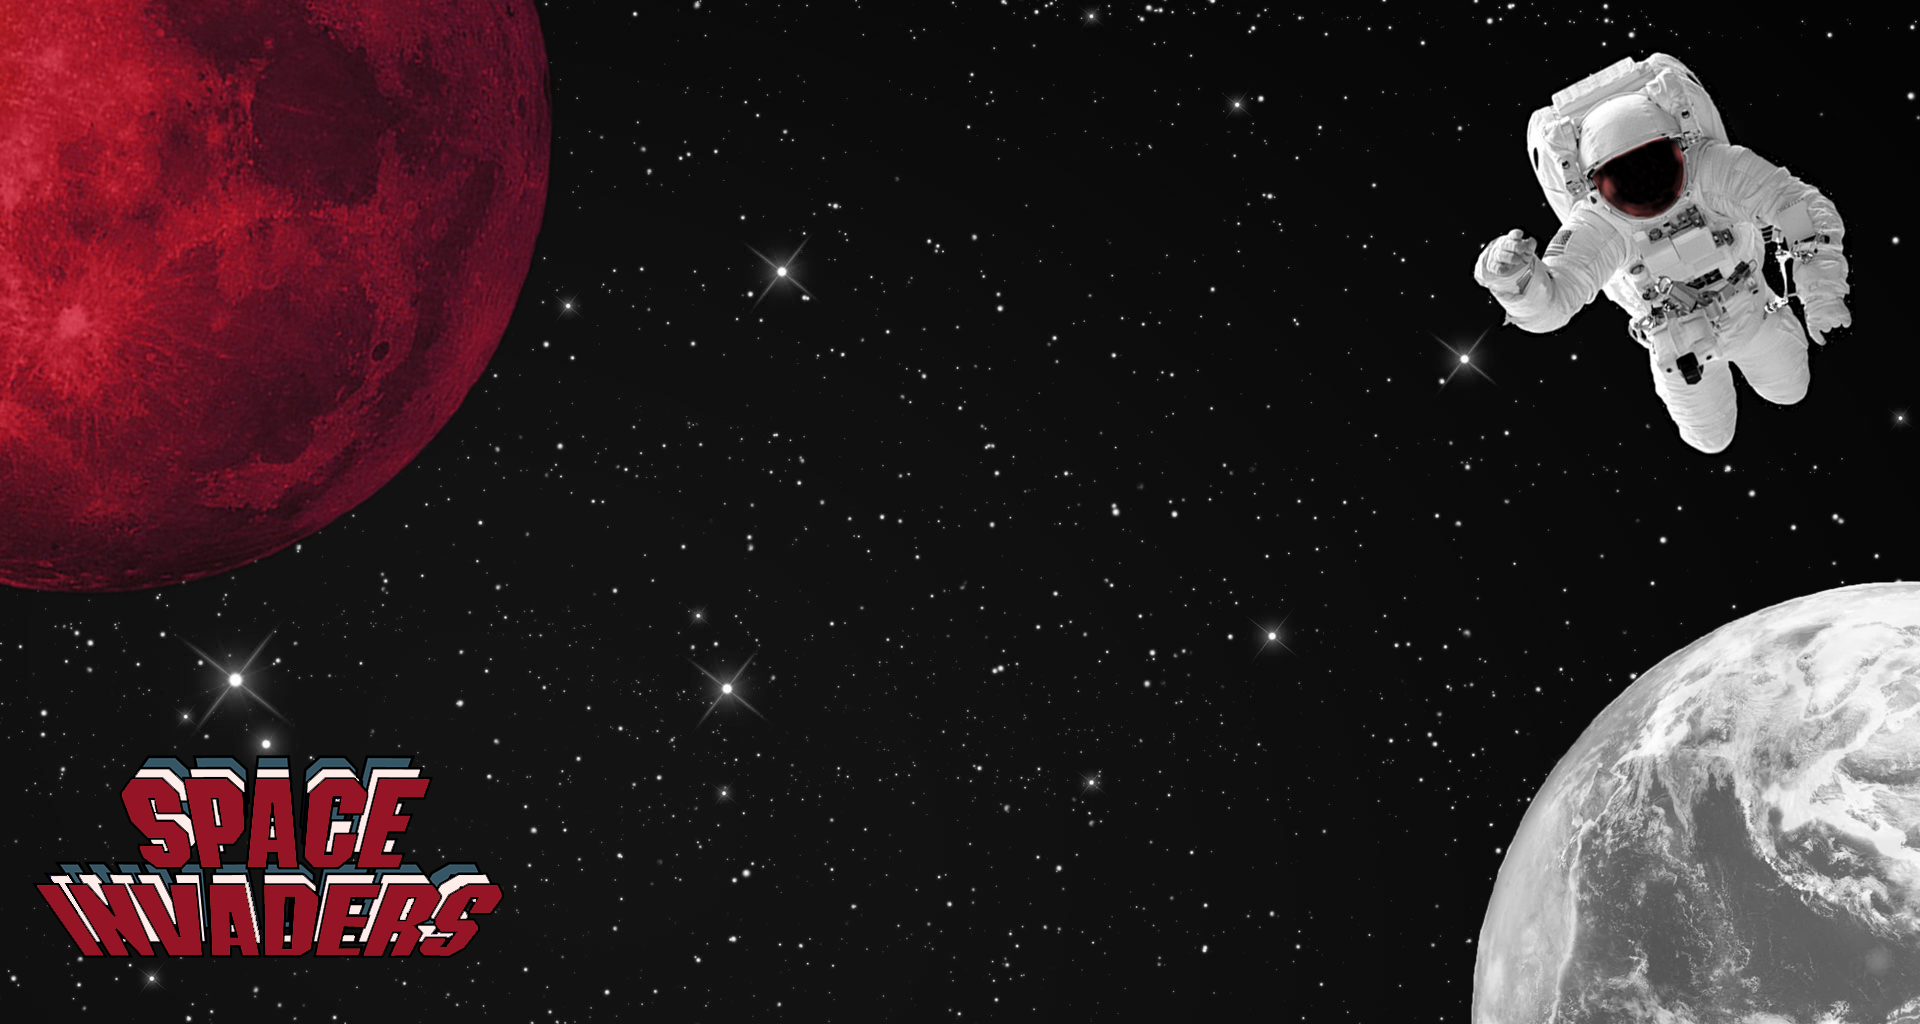
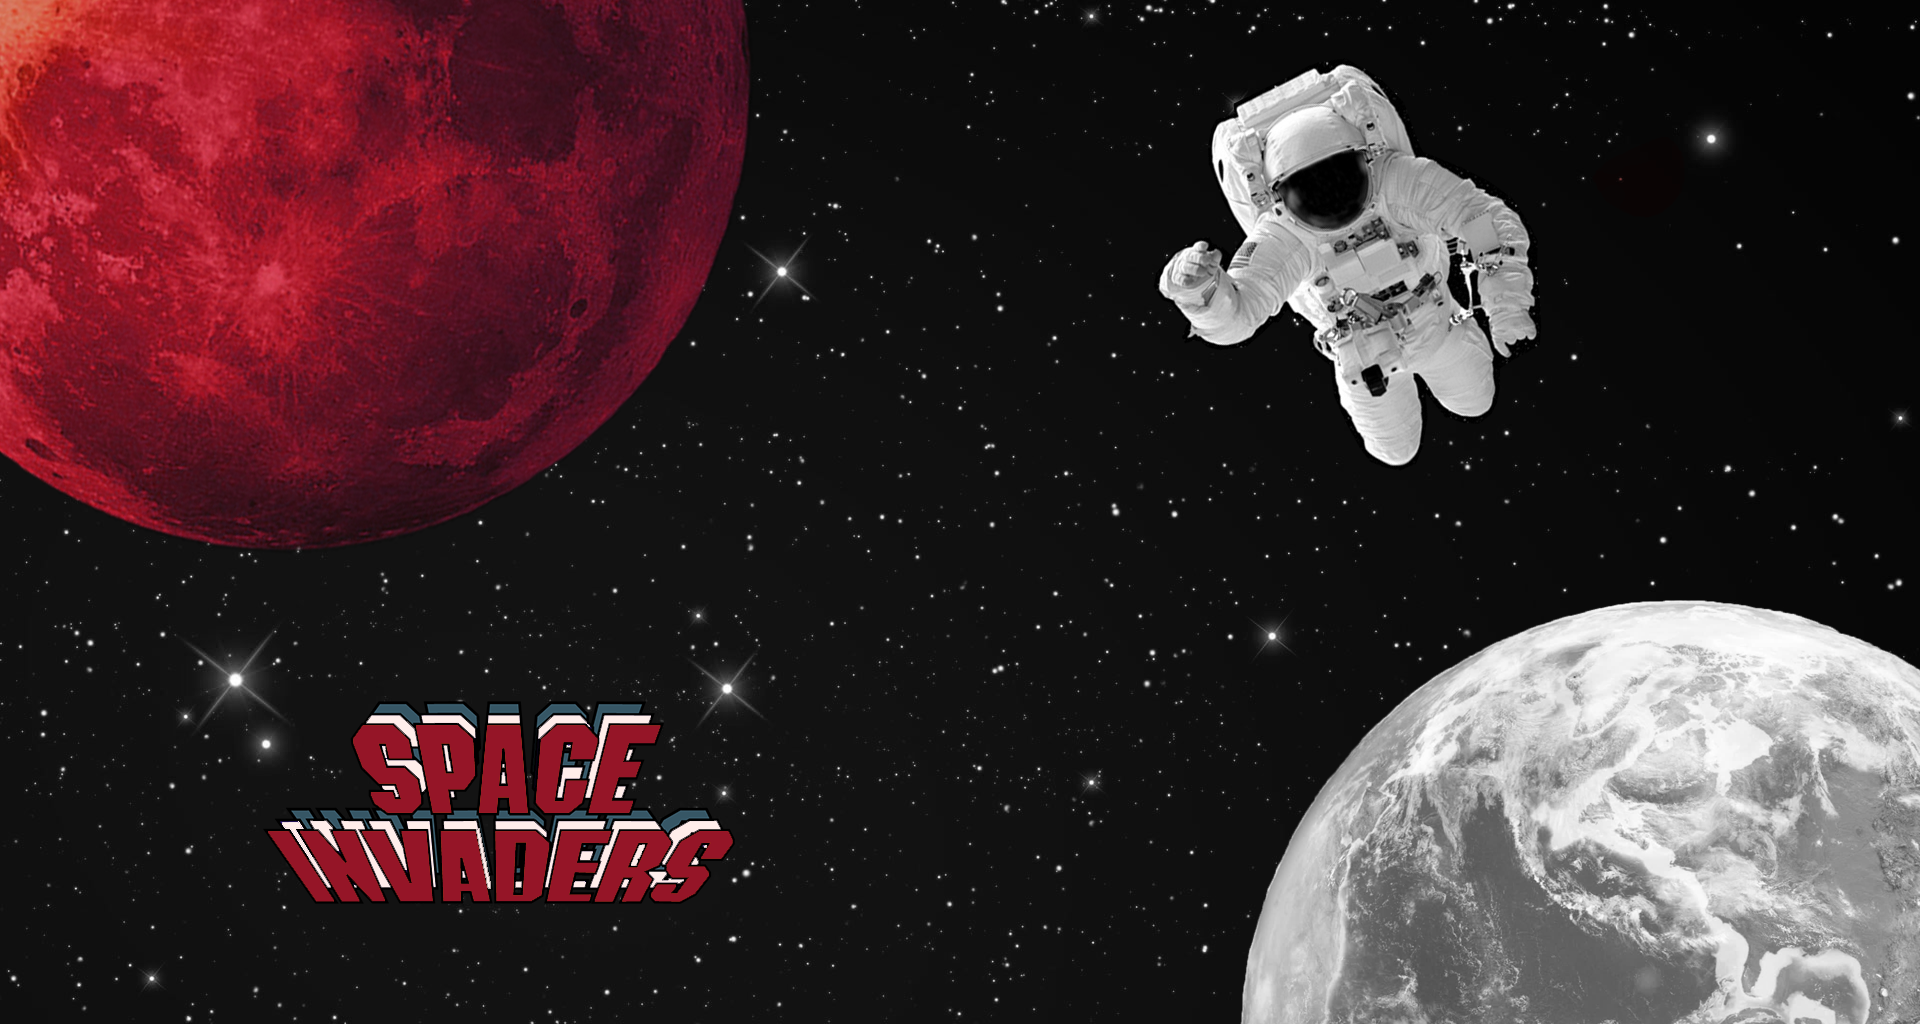
Aligned background correctly

diff --git a/index.html b/index.html
@@ -15,10 +15,11 @@
     
   <style>
       
-      body{margin: 0; padding:0; background-image: url(images/background.png);}
+      body{margin: 0; padding: 0;  background-repeat:no-repeat;
+    background-size: cover; background-image: url(images/background4.png);}
       
       #gameboard { background-color:black;  }
-      #game-wrapper {margin-top:300px; margin-left: 600px; width:800px; }
+      #game-wrapper { margin:0 auto; width:700px; margin-top: 20%; margin-bottom: 1%}
       #lifes {
 			position:absolute;
 			top:20px;
@@ -38,10 +39,10 @@
       
       
       
-      /*#background {
+      #background {
           margin-top:-600px;
           position:fixed;
-          z-index:-2000000;*/
+          z-index:-2000000;
       
   </style>
 </head>
@@ -49,7 +50,7 @@
     
 
   <div id='game-wrapper'>
-    <canvas id='gameboard' width='800' height='600'></canvas>
+    <canvas id='gameboard' width='700' height='500'></canvas>
     
           
 			          
@@ -61,7 +62,6 @@
   <div id="lifes">
 			<img src="images/heart.gif" class="life" /><img src="images/heart.gif" class="life" /><img src="images/heart.gif" class="life" />
 		</div>
-    
      
     
     </div>
